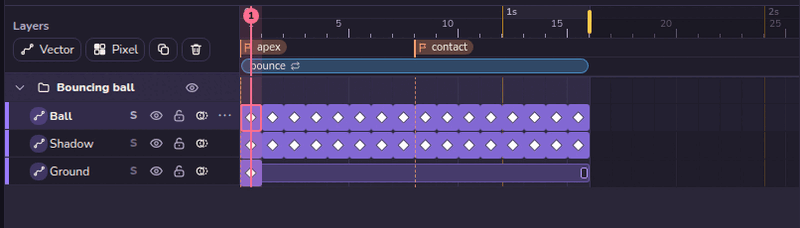
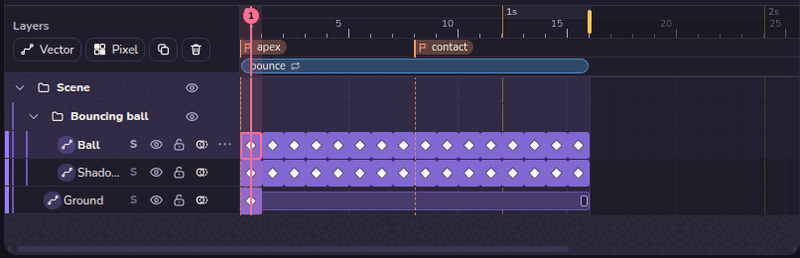
Aseprite groups come across as nested folders (to 8 levels); help text and picture for nested folders; layer list tests

diff --git a/test/timeline/nested-folders-panel.test.tsx b/test/timeline/nested-folders-panel.test.tsx
@@ -1,0 +1,151 @@
+// @vitest-environment jsdom
+// The layer list with folders inside folders: tree semantics with levels, indent, keyboard moves and drag and drop.
+import { act } from 'react';
+import { createRoot, type Root } from 'react-dom/client';
+import { afterEach, beforeAll, beforeEach, describe, expect, it } from 'vitest';
+import type { Layer } from '../../src/core/format';
+import { newDoc, newVectorLayer } from '../../src/core/doc';
+import { resetStore, store } from '../../src/core/store';
+import * as edit from '../../src/effects/edit';
+import { toggleFolderCollapsed } from '../../src/effects/rows';
+import '../../src/timeline';
+import { TimelinePanel } from '../../src/timeline/TimelinePanel';
+import { setTl } from '../../src/timeline/state';
+
+(globalThis as { IS_REACT_ACT_ENVIRONMENT?: boolean }).IS_REACT_ACT_ENVIRONMENT = true;
+
+let root: Root;
+let host: HTMLElement;
+
+beforeAll(() => {
+  (globalThis as { ResizeObserver?: unknown }).ResizeObserver = class {
+    observe() {}
+    unobserve() {}
+    disconnect() {}
+  };
+  HTMLElement.prototype.setPointerCapture = () => {};
+  HTMLElement.prototype.releasePointerCapture = () => {};
+  HTMLElement.prototype.hasPointerCapture = () => false;
+  Object.defineProperty(HTMLElement.prototype, 'clientWidth', { configurable: true, get: () => 1000 });
+});
+beforeEach(() => {
+  setTl({ cw: 20, clipId: null, editing: null });
+  host = document.createElement('div');
+  document.body.appendChild(host);
+  root = createRoot(host);
+});
+afterEach(() => {
+  act(() => root.unmount());
+  host.remove();
+  document.body.innerHTML = '';
+});
+
+/** a, b, c, d (bottom first); P holds b and c; Q (in P) holds c. */
+function mount() {
+  const doc = newDoc({ width: 8, height: 8 });
+  doc.layers = ['a', 'b', 'c', 'd'].map((n) => Object.assign(newVectorLayer(n), { id: n }) as Layer);
+  const p = edit.makeFolder(doc, ['b', 'c'], 'P')!;
+  const q = edit.makeFolder(doc, ['c'], 'Q')!;
+  const s = resetStore(doc);
+  act(() => root.render(<TimelinePanel />));
+  return { s, p, q };
+}
+const rows = () => Array.from(host.querySelectorAll<HTMLElement>('[role=treeitem][data-row]'));
+const label = (el: HTMLElement) => (el.dataset.folder ? `F:${el.getAttribute('aria-label')!.split(',')[0].slice(7)}` : el.dataset.layer!);
+const key = (el: HTMLElement, k: string, extra: KeyboardEventInit = {}) => act(() => void el.dispatchEvent(new KeyboardEvent('keydown', { key: k, bubbles: true, cancelable: true, ...extra })));
+const layerEl = (id: string) => host.querySelector<HTMLElement>(`[data-layer="${id}"]`)!;
+const folderEl = (id: string) => host.querySelector<HTMLElement>(`[data-folder="${id}"]`)!;
+
+describe('layer list with folders inside folders', () => {
+  it('is a tree: levels on every row, folders say whether they are open', () => {
+    const { p, q } = mount();
+    const tree = host.querySelector('[role=tree]')!;
+    expect(tree).toBeTruthy();
+    expect(rows().map((r) => `${label(r)}@${r.getAttribute('aria-level')}`)).toEqual(['d@1', 'F:P@1', 'F:Q@2', 'c@3', 'b@2', 'a@1']);
+    expect(folderEl(p).getAttribute('aria-expanded')).toBe('true');
+    act(() => toggleFolderCollapsed(q, true));
+    expect(folderEl(q).getAttribute('aria-expanded')).toBe('false');
+    expect(rows().map(label)).toEqual(['d', 'F:P', 'F:Q', 'b', 'a']);
+    act(() => toggleFolderCollapsed(p, true));
+    expect(rows().map(label)).toEqual(['d', 'F:P', 'a']);
+    act(() => {
+      toggleFolderCollapsed(p, false);
+      toggleFolderCollapsed(q, false);
+    });
+  });
+
+  it('indents each row by how many folders it sits in', () => {
+    mount();
+    expect(layerEl('c').style.getPropertyValue('--depth')).toBe('2');
+    expect(layerEl('b').style.getPropertyValue('--depth')).toBe('1');
+    expect(layerEl('a').style.getPropertyValue('--depth')).toBe('0');
+    expect(layerEl('c').className).toContain('in-folder');
+    expect(layerEl('a').className).not.toContain('in-folder');
+  });
+
+  it('Alt+Right puts a layer in the folder next to it, Alt+Left takes it out', () => {
+    const { s, p } = mount();
+    key(layerEl('a'), 'ArrowRight', { altKey: true });
+    expect(s.get().doc.layers.find((l) => l.id === 'a')!.folder).toBe(p);
+    key(layerEl('a'), 'ArrowLeft', { altKey: true });
+    expect(s.get().doc.layers.find((l) => l.id === 'a')!.folder).toBeUndefined();
+  });
+
+  it('Alt+Up and Alt+Down step a layer through the folders', () => {
+    const { s, p, q } = mount();
+    const folderOfD = () => s.get().doc.layers.find((l) => l.id === 'd')!.folder;
+    key(layerEl('d'), 'ArrowDown', { altKey: true });
+    expect(folderOfD()).toBe(p);
+    key(layerEl('d'), 'ArrowDown', { altKey: true });
+    expect(folderOfD()).toBe(q);
+    // At the top edge of Q it steps out to P, then out to the stage.
+    key(layerEl('d'), 'ArrowUp', { altKey: true });
+    expect(folderOfD()).toBe(p);
+    key(layerEl('d'), 'ArrowUp', { altKey: true });
+    expect(folderOfD()).toBeUndefined();
+  });
+
+  it('Alt+Right on a folder puts the folder in the folder next to it', () => {
+    const doc = newDoc({ width: 8, height: 8 });
+    doc.layers = ['a', 'b', 'c'].map((n) => Object.assign(newVectorLayer(n), { id: n }) as Layer);
+    const f = edit.makeFolder(doc, ['a', 'b'], 'F')!;
+    const g = edit.makeFolder(doc, ['c'], 'G')!;
+    const s = resetStore(doc);
+    act(() => root.render(<TimelinePanel />));
+    key(folderEl(g), 'ArrowRight', { altKey: true });
+    expect(s.get().doc.folders![g].parent).toBe(f);
+    key(folderEl(g), 'ArrowLeft', { altKey: true });
+    expect(s.get().doc.folders![g].parent).toBeUndefined();
+  });
+
+  it('arrows walk the rows and fold and unfold folders', () => {
+    const { q } = mount();
+    const el = folderEl(q);
+    act(() => el.focus());
+    key(el, 'ArrowDown');
+    expect(document.activeElement).toBe(layerEl('c'));
+    key(layerEl('c'), 'ArrowLeft');
+    expect(document.activeElement).toBe(folderEl(q));
+    key(el, 'ArrowLeft');
+    expect(folderEl(q).getAttribute('aria-expanded')).toBe('false');
+    key(folderEl(q), 'ArrowRight');
+    expect(folderEl(q).getAttribute('aria-expanded')).toBe('true');
+  });
+
+  it('dragging a folder onto another folder puts it inside', () => {
+    const doc = newDoc({ width: 8, height: 8 });
+    doc.layers = ['a', 'b', 'c'].map((n) => Object.assign(newVectorLayer(n), { id: n }) as Layer);
+    const f = edit.makeFolder(doc, ['a', 'b'], 'F')!;
+    const g = edit.makeFolder(doc, ['c'], 'G')!;
+    const s = resetStore(doc);
+    act(() => root.render(<TimelinePanel />));
+    const data = { setData() {}, effectAllowed: '' };
+    const ev = (type: string) => Object.assign(new Event(type, { bubbles: true, cancelable: true }), { dataTransfer: data, clientY: 0 });
+    act(() => void folderEl(g).dispatchEvent(ev('dragstart')));
+    act(() => void folderEl(f).dispatchEvent(ev('dragover')));
+    expect(folderEl(f).className).toContain('drop-into');
+    act(() => void folderEl(f).dispatchEvent(ev('drop')));
+    expect(s.get().doc.folders![g].parent).toBe(f);
+    expect(store().get().doc.layers.map((l) => l.id).join('')).toBe('abc');
+  });
+});

diff --git a/src/aseprite/convert.ts b/src/aseprite/convert.ts
@@ -5,6 +5,7 @@
  */
 import { CLIP_DIRECTIONS, MAX_REPEAT } from '../core/clipPlay';
 import { newDoc, uid } from '../core/doc';
+import { MAX_FOLDER_DEPTH, folderChain } from '../core/folders';
 import {
   TILE_FLIP_D,
   TILE_FLIP_X,
@@ -266,7 +267,7 @@ export function asepritePieces(file: AseFile, name: string, target?: Target): Pi
   const flattened: string[] = [];
   let zIndexed = 0;
   let scaledRefs = 0;
-  let nested = 0;
+  let deep = 0;
   let pixelBytes = 0;
 
   const celOf = new Map<string, AseCel>();
@@ -326,7 +327,8 @@ export function asepritePieces(file: AseFile, name: string, target?: Target): Pi
   };
   if (file.tilesets.some((t) => t.external)) notes.push('A tileset is stored in another file that was not found, so its tiles are blank.');
 
-  // Folders: the top-level groups. Deeper groups fold into their top-level one.
+  // Folders: every group, inside its parent group's folder. Groups deeper than the folder limit fold into the folder
+  // at the limit (hiding, fading and the name carry over).
   const stack: AseLayer[] = [];
   const folderOf = new Map<AseLayer, Id>();
   const grab = (n: number) => {
@@ -336,20 +338,22 @@ export function asepritePieces(file: AseFile, name: string, target?: Target): Pi
 
   for (const l of file.layers) {
     while (stack.length && stack[stack.length - 1].level >= l.level) stack.pop();
-    const inner = stack.slice(1);
+    // The groups around this one that have folders, and the ones too deep to.
+    const held = stack.filter((g) => folderOf.has(g));
+    const inner = stack.filter((g) => !folderOf.has(g));
     if (l.type === LAYER_GROUP) {
-      if (stack.length === 0) {
+      if (held.length < MAX_FOLDER_DEPTH) {
         const id = uid('f');
         const mode = blendFor(l.blend);
         if (l.blend && !mode) noteBlend(blendMissing, l.blend, plain(l.name));
-        folders[id] = { id, name: plain(l.name) || 'Group', visible: l.visible, opacity: l.opacity / 255, ...(mode && mode !== 'normal' ? { blend: mode } : {}) };
+        const parent = held.length ? folderOf.get(held[held.length - 1]) : undefined;
+        folders[id] = { id, name: plain(l.name) || 'Group', visible: l.visible, opacity: l.opacity / 255, ...(mode && mode !== 'normal' ? { blend: mode } : {}), ...(parent ? { parent } : {}) };
         folderOf.set(l, id);
-      } else nested++;
+      } else deep++;
       stack.push(l);
       continue;
     }
-    const top = stack[0];
-    // A layer hides, fades and is named by the groups inside the top one.
+    // A layer hides, fades and is named by the groups too deep to be folders.
     let visible = l.visible;
     let opacity = l.opacity / 255;
     let label = plain(l.name) || 'Layer';
@@ -359,7 +363,7 @@ export function asepritePieces(file: AseFile, name: string, target?: Target): Pi
       if (g.blend) noteBlend(blendMissing, g.blend, plain(g.name), true);
     }
     if (inner.length) label = `${inner.map((g) => plain(g.name)).join(' / ')} / ${label}`;
-    const folder = top ? folderOf.get(top) : undefined;
+    const folder = held.length ? folderOf.get(held[held.length - 1]) : undefined;
 
     const base = {
       id: uid('l'),
@@ -523,7 +527,7 @@ export function asepritePieces(file: AseFile, name: string, target?: Target): Pi
   for (const [mode, names] of blendMissing) notes.push(`Frameling has no "${blendName(mode)}" blend mode, so ${listOf(names)} blend${names.length === 1 ? 's' : ''} normally.`);
   if (flattened.length) notes.push(`Tilemap layers drawn as flat pixels instead of tiles: ${flattened.join('; ')}.`);
   if (croppedLayers.length) notes.push(`Drawing outside the canvas was cropped on: ${listOf(croppedLayers)}.`);
-  if (nested) notes.push(`Frameling folders go one level deep, so ${nested} group${nested === 1 ? '' : 's'} inside another group became part of the outer one (hiding, fading and the name carry over).`);
+  if (deep) notes.push(`Frameling folders go ${MAX_FOLDER_DEPTH} levels deep, so ${deep} group${deep === 1 ? '' : 's'} nested deeper became part of the folder around ${deep === 1 ? 'it' : 'them'} (hiding, fading and the name carry over).`);
   if (zIndexed) notes.push(`${zIndexed} cel${zIndexed === 1 ? ' has' : 's have'} a custom stacking order, which is ignored.`);
   if (scaledRefs) notes.push(`${scaledRefs} scaled reference picture${scaledRefs === 1 ? ' was' : 's were'} resized to the size shown in Aseprite.`);
   if (file.slices.length) notes.push(`${file.slices.length} slice${file.slices.length === 1 ? '' : 's'} (${file.slices.slice(0, 4).map((s) => plain(s.name)).join(', ')}${file.slices.length > 4 ? ', ...' : ''}) are kept in the drawing's notes but not shown.`);
@@ -549,7 +553,7 @@ export function asepritePieces(file: AseFile, name: string, target?: Target): Pi
     fps: timing.fps,
     length: timing.length,
     layers,
-    folders: Object.fromEntries(Object.entries(folders).filter(([id]) => layers.some((l) => l.folder === id))),
+    folders: Object.fromEntries(Object.entries(folders).filter(([id]) => layers.some((l) => folderChain(folders, l.folder).some((f) => f.id === id)))),
     drawings,
     clips,
     ...(palette ? { palette } : {}),

diff --git a/src/effects/help.ts b/src/effects/help.ts
@@ -105,18 +105,22 @@ A mask only reaches the layers under it in its own folder, so it never cuts into
     title: 'Layer folders',
     section: 'Effects',
     media: 'layer-folders.png',
-    summary: 'Put layers in a folder to fade, blend, mask and add effects to them together. Fold it shut to tidy the timeline.',
+    summary: 'Put layers in a folder to fade, blend, mask and add effects to them together. Folders can sit inside folders. Fold one shut to tidy the timeline.',
     keywords: ['folder', 'group', 'layer group', 'collapse', 'tidy'],
-    body: `A **folder** (layer group) holds layers that belong together, like the parts of a character.
+    body: `A **folder** (layer group) holds layers that belong together, like the parts of a character. Folders can hold other folders, up to 8 levels deep: a **Scene** folder can hold a **Character** folder, which holds an **Arm** folder.
 
-- **Make one:** pick a layer, then **Effects menu > Put layer in a new folder**.
-- **Add layers:** drag a layer onto a layer inside the folder, or use **Move layer up** / **Move layer down** to step it in at the folder's edge. Drag it onto a layer outside, or step it past the folder's edge, to take it out.
-- **Fold it:** click the arrow on the folder's row to hide its layers in the timeline. They still show on the canvas.
-- **Hide it:** the eye on the folder's row hides every layer in it.
-- **Remove it:** **Effects menu > Take layers out of this folder**. The layers stay where they are.
+- **Make one:** pick a layer, then **Effects menu > Put layer in a new folder**. On a layer that is already in a folder, this makes a folder inside that folder.
+- **Add layers:** drag a layer onto a layer inside the folder, or onto the folder's row to put it at the top. You can also use **Move layer up** / **Move layer down** to step it in at the folder's edge.
+- **Take layers out:** drag a layer onto a layer outside, or step it past the folder's edge. **Effects menu > Take layer out of its folder** moves it just above the folder.
+- **Folder in a folder:** drag the folder's row onto another folder's row (the middle of the row puts it inside; the top edge puts it above). Dragging a folder moves everything in it. **Put this folder in the folder next to it** does the same from the keyboard or the command palette.
+- **Fold it:** click the arrow on the folder's row to hide what is in it in the timeline. It still shows on the canvas.
+- **Hide it:** the eye on the folder's row hides everything in it, folders inside it too.
+- **Remove it:** **Effects menu > Take layers out of this folder**. Its layers and folders move up a level and stay where they are.
 
-In the Effects panel, pick **Folder** at the top to set a see-through amount, a [blend mode](help:blend-modes) or [effects](help:effects) for the whole folder at once. A folder that fades fades as one picture, so overlapping parts don't show through each other.
+**Keyboard:** with a layer or folder row picked in the list, the up and down arrows walk the rows, left folds a folder (or jumps to the folder it is in) and right unfolds it. Hold **Alt** to move the row itself: Alt+Up and Alt+Down step it through the list (into and out of folders as they come), Alt+Left takes it out of its folder, Alt+Right puts it into the folder next to it.
 
-Masks in a folder only mask that folder's layers (see [Masks and clipping](help:masks)). Folders can't hold other folders yet.`,
+In the Effects panel, pick a **Folder** at the top (any folder around the layer) to set a see-through amount, a [blend mode](help:blend-modes) or [effects](help:effects) for the whole folder at once. A folder that fades fades as one picture, so overlapping parts don't show through each other. Inside a faded folder, a folder with its own fade is faded first and then fades with the rest, so the amounts multiply.
+
+Masks in a folder only mask that folder's layers, folders inside it included (see [Masks and clipping](help:masks)). Layered exports keep the folders nested: Photoshop groups and Illustrator layers inside each other, and the same in PDF layers. Game exports that have no folders fold each folder's fade into its layers.`,
   },
 ]);

diff --git a/test/aseprite/import.test.ts b/test/aseprite/import.test.ts
@@ -1,5 +1,6 @@
 import { describe, expect, it } from 'vitest';
 import { drawingAt } from '../../src/core/doc';
+import { MAX_FOLDER_DEPTH, folderChain } from '../../src/core/folders';
 import { TILE_FLIP_D, TILE_FLIP_X, TILE_FLIP_Y, type Doc, type Layer, type PixelDrawing, type TilemapDrawing } from '../../src/core/format';
 import { loadFile, saveFile } from '../../src/io/file';
 import { asepriteDoc, asepritePieces, blendFor, mergePieces, planTiming, scaleRgba } from '../../src/aseprite/convert';
@@ -220,27 +221,47 @@ describe('layers and groups', () => {
   const byName = (n: string) => doc.layers.find((l) => l.name.endsWith(n))!;
 
   it('turns a group into a folder with its opacity and blend', () => {
-    const f = Object.values(doc.folders!);
-    expect(f).toHaveLength(1);
-    expect(f[0]).toMatchObject({ name: 'Outer', visible: true, blend: 'multiply' });
-    expect(f[0].opacity).toBeCloseTo(128 / 255);
-    expect(byName('A').folder).toBe(f[0].id);
-    expect(byName('B').folder).toBe(f[0].id);
+    const outer = Object.values(doc.folders!).find((f) => f.name === 'Outer')!;
+    expect(outer).toMatchObject({ name: 'Outer', visible: true, blend: 'multiply' });
+    expect(outer.parent).toBeUndefined();
+    expect(outer.opacity).toBeCloseTo(128 / 255);
+    expect(byName('A').folder).toBe(outer.id);
     expect(byName('Solo').folder).toBeUndefined();
   });
 
-  it('folds a group inside a group into the outer one, keeping hiding and fading', () => {
-    expect(byName('B').name).toBe('Inner / B');
-    expect(byName('B').visible).toBe(false);
-    expect(byName('B').opacity).toBeCloseTo(128 / 255);
-    expect(notes.join(' ')).toContain('one level deep');
+  it('keeps a group inside a group as a folder inside a folder, with its own hiding and fading', () => {
+    const outer = Object.values(doc.folders!).find((f) => f.name === 'Outer')!;
+    const inner = Object.values(doc.folders!).find((f) => f.name === 'Inner')!;
+    expect(Object.keys(doc.folders!)).toHaveLength(2);
+    expect(inner.parent).toBe(outer.id);
+    expect(inner.visible).toBe(false);
+    expect(inner.opacity).toBeCloseTo(128 / 255);
+    expect(byName('B').name).toBe('B');
+    expect(byName('B').folder).toBe(inner.id);
+    expect(byName('B').visible).toBe(true);
+    expect(byName('B').opacity).toBe(1);
+    // Nothing is approximated any more.
+    expect(notes.join(' ')).not.toContain('level');
   });
 
   it('keeps reference, locked and layer order', () => {
     expect(byName('Ref').reference).toBe(true);
     expect(byName('Locked').locked).toBe(true);
     expect(byName('Solo').locked).toBe(false);
-    expect(doc.layers.map((l) => l.name)).toEqual(['Solo', 'A', 'Inner / B', 'Ref', 'Locked', 'Sub', 'Div']);
+    expect(doc.layers.map((l) => l.name)).toEqual(['Solo', 'A', 'B', 'Ref', 'Locked', 'Sub', 'Div']);
+  });
+
+  it('keeps groups to the folder depth limit and folds the deeper ones into the folder at the limit', () => {
+    const chunks = [];
+    for (let i = 0; i < 10; i++) chunks.push(layerChunk({ name: `G${i}`, type: 1, level: i, opacity: i === 9 ? 128 : 255 }));
+    chunks.push(layerChunk({ name: 'Leaf', level: 10 }));
+    const deep = open(aseFile({ width: 1, height: 1, depth: 32, flags: 3, frames: [{ duration: 100, chunks: [...chunks, celChunk({ layer: 10, kind: 'image', width: 1, height: 1, data: [1, 1, 1, 255] })] }] }));
+    const fs = Object.values(deep.doc.folders!);
+    expect(fs).toHaveLength(MAX_FOLDER_DEPTH);
+    expect(folderChain(deep.doc.folders, deep.doc.layers[0].folder).length).toBe(MAX_FOLDER_DEPTH);
+    expect(deep.doc.layers[0].name).toBe('G8 / G9 / Leaf');
+    expect(deep.doc.layers[0].opacity).toBeCloseTo(128 / 255);
+    expect(deep.notes.join(' ')).toContain('2 groups nested deeper');
   });
 
   it('maps every blend mode with an equal and says which have none', () => {

diff --git a/src/aseprite/help.ts b/src/aseprite/help.ts
@@ -26,7 +26,7 @@ Search for **Use palette from an Aseprite file** in the command palette (Ctrl+K)
 
 ## What comes across
 
-- **Layers**, in order, with their opacity, blend mode, hidden and locked state, and groups as folders. Reference layers stay reference layers.
+- **Layers**, in order, with their opacity, blend mode, hidden and locked state, and groups as folders (a group inside a group becomes a folder inside a folder). Reference layers stay reference layers.
 - **Frames with their timing.** Frameling counts frames at one rate, so it picks the rate that fits every frame's time exactly (a 100 ms frame next to a 150 ms one becomes 20 fps, held 2 and 3 frames) and holds the frames to match. If the times can't fit exactly, it tells you.
 - **Linked cels** share one drawing, so a hold stays a hold.
 - **Each cel's position and opacity**, in every colour mode: full colour, grayscale and indexed.
@@ -40,7 +40,6 @@ After an import, a message says **See what changed** whenever something couldn't
 
 - **Subtract and Divide** blend modes don't exist in Frameling, so those layers blend normally.
 - **Slices** (including 9-patch and pivots) are kept in the notes but not shown.
-- **Groups inside groups** become one folder. Hiding, fading and names carry over.
 - Anything drawn **outside the canvas** is cropped.
 
 If a file ends in .ase but isn't from Aseprite (Adobe swatch files do this), Frameling says so.

diff --git a/src/effects/effects.css b/src/effects/effects.css
@@ -320,8 +320,11 @@
   /* One step in for each folder it sits inside. */
   padding-left: calc(var(--depth, 1) * 14px);
 }
-.tl-layer.in-folder::before,
-.tl-folder.in-folder::before {
+.tl-layer.is-detailed.in-folder {
+  padding-left: calc(7px + var(--depth, 1) * 14px);
+}
+.tl-layer.in-folder::after,
+.tl-folder.in-folder::after {
   content: '';
   position: absolute;
   left: 7px;

diff --git a/docs/format.md b/docs/format.md
@@ -85,7 +85,8 @@ Repaired quietly (defaults filled, values clamped):
 - Layer `name`, `visible`, `locked` default; `opacity` is clamped to 0..1; `depth` to -0.9..100; `pixelSize` rounded,
   at least 1; unknown `label` dropped.
 - Effects: unknown kinds dropped, values filled from the effect's defaults (`src/effects/io.ts`), keys deduplicated by
-  frame and sorted. Layers naming a missing folder leave it; folders no layer uses are dropped.
+  frame and sorted. Layers naming a missing folder leave it; folders no layer is in or under are dropped. A folder's `parent` is kept
+  only when that folder exists; loops and self-parents are cut, and a chain deeper than 8 is cut at the top.
 - Bones: a bone whose parent doesn't come before it becomes a root; duplicate ids are skipped; `length` at least 1;
   `s` clamped to `BONE_STRETCH` (0.25 to 3). A skin mesh with bad indices or weight counts is dropped (the layer
   keeps its plain bone bind).
@@ -278,7 +279,10 @@ when comparing two drawings for "same look" (as `id` is ignored).
 - `BlendMode`: the canvas modes plus `'add'`.
 - `LayerEffect`: `{id, kind: blur|glow|shadow|adjust|outline|pixelate, on?, values, keys?}`. `values` holds numbers
   and hex colours; `keys: {frame, values}[]` animate the numbers (linear between keys, held outside).
-- `LayerFolder`: `{id, name, visible, opacity, blend?, effects?}`.
+- `LayerFolder`: `{id, name, visible, opacity, blend?, effects?, parent?}`. `parent` is the id of the folder it sits in
+  (missing = on the stage), up to 8 levels deep. A layer's `folder` is the folder it sits in directly; every layer under
+  a folder, in folders inside it too, sits next to the others in `layers`, so the flat list reads like the tree walked in
+  order. Files from before folders could nest have no `parent` and open unchanged.
 
 See `docs/effects.md`.
 

diff --git a/docs/effects.md b/docs/effects.md
@@ -37,7 +37,9 @@ Within a level (the stage, or one folder), bottom to top (`src/effects/plan.ts`)
   the base hides them. With no base under them they draw as usual.
 - A mask layer cuts out everything under it in the same level. At the stage level that's every layer under it, never
   the stage colour.
-- Folders are one level deep. A folder with normal blend, full opacity, no effects and no masks inside is "pass
+- Folders can hold folders, up to 8 levels deep (`src/core/folders.ts`). Each level is composed on its own: the inner
+  folder is drawn into the outer one with its own opacity, blend and effects, then the outer folder's look applies to the
+  lot. A folder with normal blend, full opacity, no effects and no masks inside is "pass
   through" (its layers draw straight onto the stage); otherwise it's drawn as one picture first.
 
 Making a mask from the Effects menu or panel puts the mask and the layer under it (or every layer under it, asked the
